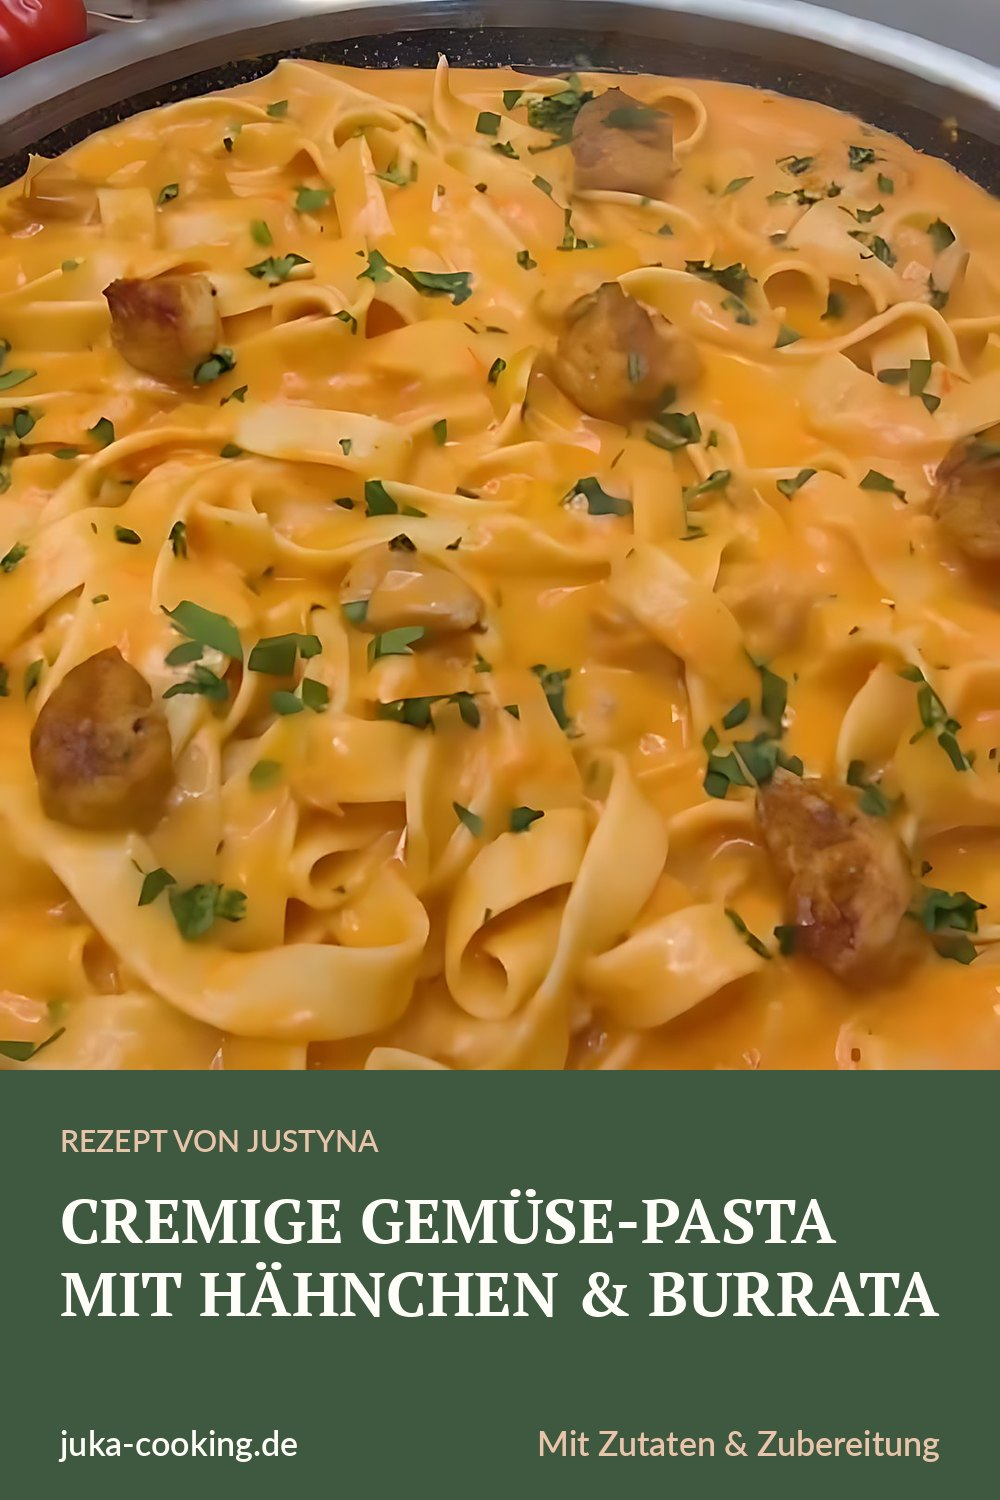
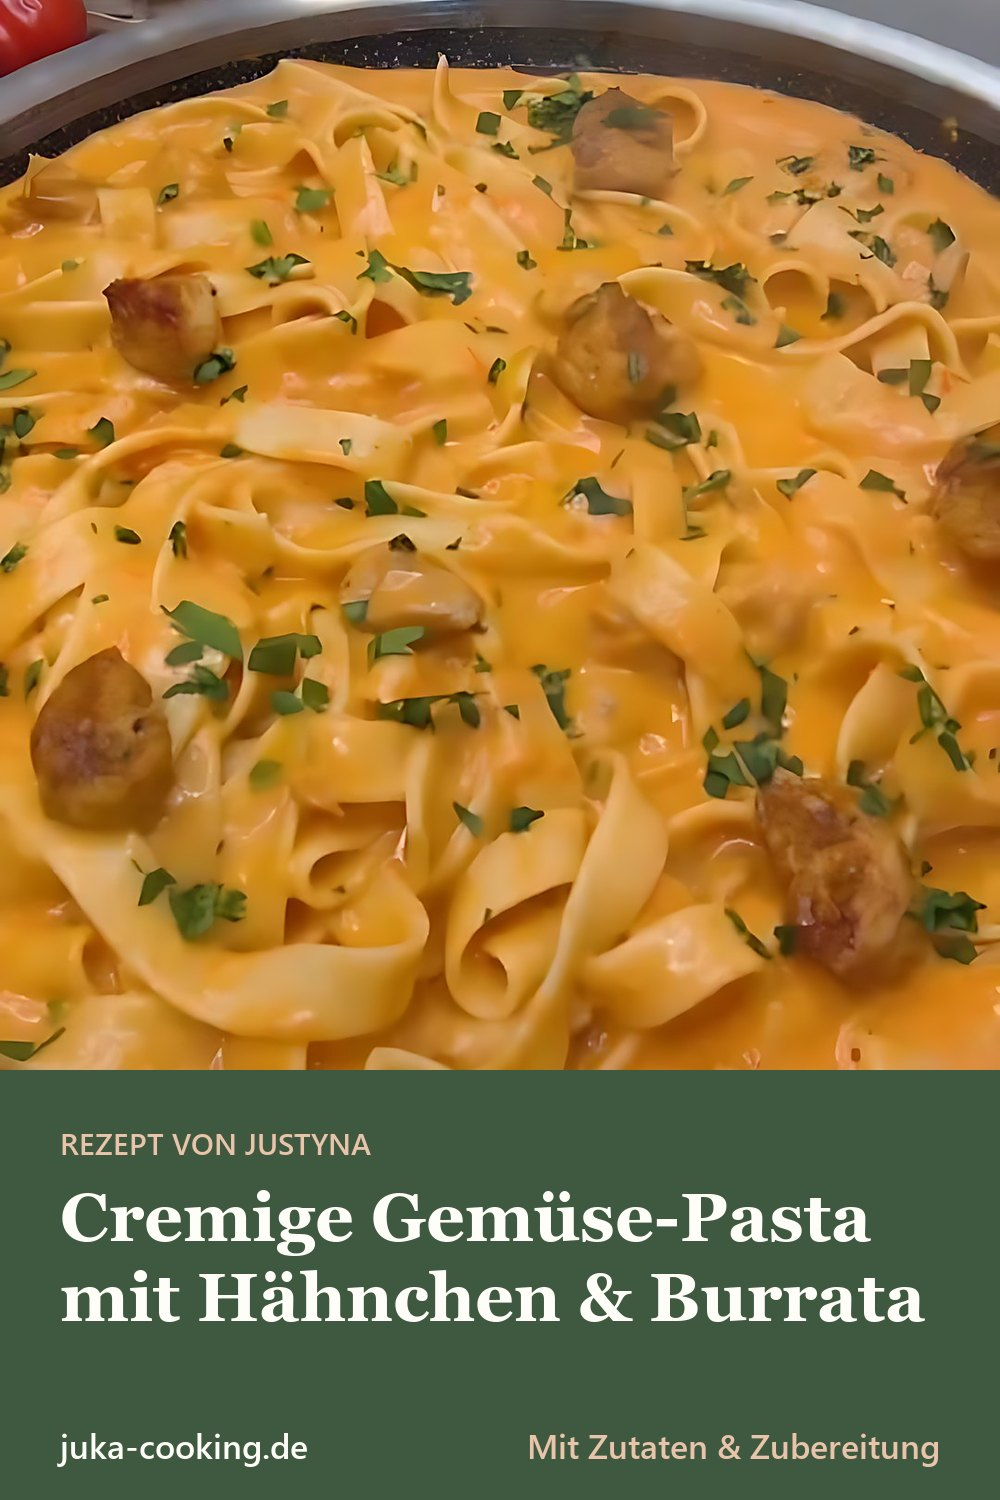
Rezept-Titel automatisch glätten
Großgeschriebene Titel werden normal geschrieben, Satz-Titel wie „Diese cremige
Brokkoli-Käse-Pasta ist echtes Soulfood“ auf den Gerichtnamen gekürzt. Die
Adressen der Rezeptseiten bleiben unverändert, damit Links und Pins gültig
bleiben. Pinterest-Bilder der zwei betroffenen Rezepte neu erzeugt.

Changed region(s): [[0.062, 0.736, 0.93, 0.8893], [0.527, 0.9507, 0.961, 0.9813], [0.062, 0.9507, 0.31, 0.9813]]

diff --git a/public/rezepte/cremige-gemuese-pasta-mit-haehnchen-burrata.html b/public/rezepte/cremige-gemuese-pasta-mit-haehnchen-burrata.html
@@ -7,20 +7,20 @@
   <meta name="theme-color" content="#f8f3e9">
   <meta name="referrer" content="no-referrer">
   <meta http-equiv="Content-Security-Policy" content="default-src 'none'; script-src 'self'; style-src 'self'; img-src 'self'; connect-src 'self' https://qwfbzcbcfznctzyoqbky.supabase.co; base-uri 'none'; form-action 'none'">
-  <title>CREMIGE GEMÜSE-PASTA MIT HÄHNCHEN &amp; BURRATA · Rezept von Juka Cooking</title>
+  <title>Cremige Gemüse-Pasta mit Hähnchen &amp; Burrata · Rezept von Juka Cooking</title>
   <link rel="stylesheet" href="../styles.css">
   <link rel="stylesheet" href="rezepte.css">
   <script src="../klick.js" defer></script>
   <link rel="canonical" href="https://juka-cooking.de/rezepte/cremige-gemuese-pasta-mit-haehnchen-burrata.html">
   <meta property="og:type" content="article">
   <meta property="og:site_name" content="Juka Cooking">
-  <meta property="og:title" content="CREMIGE GEMÜSE-PASTA MIT HÄHNCHEN &amp; BURRATA">
+  <meta property="og:title" content="Cremige Gemüse-Pasta mit Hähnchen &amp; Burrata">
   <meta property="og:description" content="Wer sagt, dass Gemüse langweilig sein muss? Diese herrlich cremige Pasta beweist das Gegenteil! Aromatisch geröstetes Gemüse, zartes Hähnchen, eine unglaublich cremige Sauce mit Burrata und Sahne – dazu Pasta und geschmolzener Käse. Eine Kombination, die einfach glücklich macht!">
   <meta property="og:url" content="https://juka-cooking.de/rezepte/cremige-gemuese-pasta-mit-haehnchen-burrata.html">
   <meta property="og:image" content="https://juka-cooking.de/pins/cremige-gemuese-pasta-mit-haehnchen-burrata.jpg">
   <meta property="og:image:width" content="1000">
   <meta property="og:image:height" content="1500">
-  <script type="application/ld+json">{"@context":"https://schema.org","@type":"Recipe","name":"CREMIGE GEMÜSE-PASTA MIT HÄHNCHEN & BURRATA","description":"Wer sagt, dass Gemüse langweilig sein muss? Diese herrlich cremige Pasta beweist das Gegenteil! Aromatisch geröstetes Gemüse, zartes Hähnchen, eine unglaublich cremige Sauce mit Burrata und Sahne – dazu Pasta und geschmolzener Käse. Eine Kombination, die einfach glücklich macht!","image":["https://juka-cooking.de/pins/cremige-gemuese-pasta-mit-haehnchen-burrata.jpg","https://juka-cooking.de/rezepte-bilder/ig-Df6xBOJIJXP.jpg"],"author":{"@type":"Person","name":"Justyna"},"datePublished":"2026-11-19","recipeYield":"4 Personen","recipeIngredient":["150 g Kirschtomaten","1 Paprika","4 Knoblauchzehen","½ Zwiebel","2 EL Olivenöl","Salz & Pfeffer","200 g Hähnchen-Innenfilet","1 TL Knoblauchpulver","1 TL Paprikapulver","1 TL Hähnchengewürz","Salz & Pfeffer","2 EL Öl","Das geröstete Gemüse","200 ml Sahne","3 EL Tomatenmark","1 Burrata","1 Kelle Nudelwasser","300 g Nudeln nach Wahl","1 Handvoll geriebener Käse (z. B. Mozzarella)","Frische Petersilie"],"recipeInstructions":[{"@type":"HowToStep","text":"Gemüse rösten: Tomaten, Paprika, Knoblauch und Zwiebel in eine Auflaufform geben. Mit Olivenöl beträufeln, würzen und bei 190 °C Ober-/Unterhitze ca. 40 Minuten im Ofen rösten."},{"@type":"HowToStep","text":"Hähnchen braten: Das Hähnchen in mundgerechte Stücke schneiden, würzen und in etwas Öl goldbraun anbraten."},{"@type":"HowToStep","text":"Sauce mixen: Das Ofengemüse mit Sahne, Tomatenmark, Burrata und Nudelwasser in einen Mixer geben und zu einer wunderbar cremigen Sauce pürieren."},{"@type":"HowToStep","text":"Alles vereinen: Nudeln al dente kochen. Die Sauce zum Hähnchen geben und kurz erwärmen. Nudeln und geriebenen Käse hinzufügen und alles gut miteinander vermengen, bis der Käse geschmolzen ist."},{"@type":"HowToStep","text":"Servieren: Mit frisch gehackter Petersilie garnieren und am besten direkt genießen!"}],"video":{"@type":"VideoObject","name":"CREMIGE GEMÜSE-PASTA MIT HÄHNCHEN & BURRATA","description":"Wer sagt, dass Gemüse langweilig sein muss? Diese herrlich cremige Pasta beweist das Gegenteil! Aromatisch geröstetes Gemüse, zartes Hähnchen, eine unglaublich cremige Sauce mit Burrata und Sahne – dazu Pasta und geschmolzener Käse. Eine Kombination, die einfach glücklich macht!","contentUrl":"https://www.instagram.com/reel/Df6xBOJIJXP/","thumbnailUrl":"https://juka-cooking.de/rezepte-bilder/ig-Df6xBOJIJXP.jpg","uploadDate":"2026-11-19T09:32:52.000Z"}}</script>
+  <script type="application/ld+json">{"@context":"https://schema.org","@type":"Recipe","name":"Cremige Gemüse-Pasta mit Hähnchen & Burrata","description":"Wer sagt, dass Gemüse langweilig sein muss? Diese herrlich cremige Pasta beweist das Gegenteil! Aromatisch geröstetes Gemüse, zartes Hähnchen, eine unglaublich cremige Sauce mit Burrata und Sahne – dazu Pasta und geschmolzener Käse. Eine Kombination, die einfach glücklich macht!","image":["https://juka-cooking.de/pins/cremige-gemuese-pasta-mit-haehnchen-burrata.jpg","https://juka-cooking.de/rezepte-bilder/ig-Df6xBOJIJXP.jpg"],"author":{"@type":"Person","name":"Justyna"},"datePublished":"2026-11-19","recipeYield":"4 Personen","recipeIngredient":["150 g Kirschtomaten","1 Paprika","4 Knoblauchzehen","½ Zwiebel","2 EL Olivenöl","Salz & Pfeffer","200 g Hähnchen-Innenfilet","1 TL Knoblauchpulver","1 TL Paprikapulver","1 TL Hähnchengewürz","Salz & Pfeffer","2 EL Öl","Das geröstete Gemüse","200 ml Sahne","3 EL Tomatenmark","1 Burrata","1 Kelle Nudelwasser","300 g Nudeln nach Wahl","1 Handvoll geriebener Käse (z. B. Mozzarella)","Frische Petersilie"],"recipeInstructions":[{"@type":"HowToStep","text":"Gemüse rösten: Tomaten, Paprika, Knoblauch und Zwiebel in eine Auflaufform geben. Mit Olivenöl beträufeln, würzen und bei 190 °C Ober-/Unterhitze ca. 40 Minuten im Ofen rösten."},{"@type":"HowToStep","text":"Hähnchen braten: Das Hähnchen in mundgerechte Stücke schneiden, würzen und in etwas Öl goldbraun anbraten."},{"@type":"HowToStep","text":"Sauce mixen: Das Ofengemüse mit Sahne, Tomatenmark, Burrata und Nudelwasser in einen Mixer geben und zu einer wunderbar cremigen Sauce pürieren."},{"@type":"HowToStep","text":"Alles vereinen: Nudeln al dente kochen. Die Sauce zum Hähnchen geben und kurz erwärmen. Nudeln und geriebenen Käse hinzufügen und alles gut miteinander vermengen, bis der Käse geschmolzen ist."},{"@type":"HowToStep","text":"Servieren: Mit frisch gehackter Petersilie garnieren und am besten direkt genießen!"}],"video":{"@type":"VideoObject","name":"Cremige Gemüse-Pasta mit Hähnchen & Burrata","description":"Wer sagt, dass Gemüse langweilig sein muss? Diese herrlich cremige Pasta beweist das Gegenteil! Aromatisch geröstetes Gemüse, zartes Hähnchen, eine unglaublich cremige Sauce mit Burrata und Sahne – dazu Pasta und geschmolzener Käse. Eine Kombination, die einfach glücklich macht!","contentUrl":"https://www.instagram.com/reel/Df6xBOJIJXP/","thumbnailUrl":"https://juka-cooking.de/rezepte-bilder/ig-Df6xBOJIJXP.jpg","uploadDate":"2026-11-19T09:32:52.000Z"}}</script>
 </head>
 <body>
   <header class="site-header">
@@ -37,10 +37,10 @@
     <p class="rn-back"><a href="./">← Alle Rezepte</a></p>
     <article>
       <div class="rn-top">
-        <figure class="rn-cover"><img src="../rezepte-bilder/ig-Df6xBOJIJXP.jpg" alt="CREMIGE GEMÜSE-PASTA MIT HÄHNCHEN &amp; BURRATA" width="640" height="800"></figure>
+        <figure class="rn-cover"><img src="../rezepte-bilder/ig-Df6xBOJIJXP.jpg" alt="Cremige Gemüse-Pasta mit Hähnchen &amp; Burrata" width="640" height="800"></figure>
         <div class="rn-side">
           
-          <h1>CREMIGE GEMÜSE-PASTA MIT HÄHNCHEN &amp; BURRATA</h1>
+          <h1>Cremige Gemüse-Pasta mit Hähnchen &amp; Burrata</h1>
           <p class="rn-intro">Wer sagt, dass Gemüse langweilig sein muss? Diese herrlich cremige Pasta beweist das Gegenteil! Aromatisch geröstetes Gemüse, zartes Hähnchen, eine unglaublich cremige Sauce mit Burrata und Sahne – dazu Pasta und geschmolzener Käse. Eine Kombination, die einfach glücklich macht!</p>
           <ul class="rn-facts"><li>4 Personen</li><li>20 Zutaten</li><li>5 Schritte</li></ul>
           <p class="rn-actions"><a class="rn-btn" href="#zubereitung">Zur Zubereitung</a> <a class="rn-btn rn-btn-light" href="https://www.instagram.com/reel/Df6xBOJIJXP/">Video ansehen ↗</a></p>
@@ -86,7 +86,7 @@
         
       </section>
       <aside class="rn-save" aria-label="Rezept merken">
-        <img src="../pins/cremige-gemuese-pasta-mit-haehnchen-burrata.jpg" alt="CREMIGE GEMÜSE-PASTA MIT HÄHNCHEN &amp; BURRATA – Rezeptbild zum Merken" width="1000" height="1500" loading="lazy" decoding="async">
+        <img src="../pins/cremige-gemuese-pasta-mit-haehnchen-burrata.jpg" alt="Cremige Gemüse-Pasta mit Hähnchen &amp; Burrata – Rezeptbild zum Merken" width="1000" height="1500" loading="lazy" decoding="async">
         <div>
           <h2>Rezept für später merken</h2>
           <p>Speichere das Bild auf Pinterest oder teile den Link dieser Seite – dann findest du das Rezept jederzeit wieder.</p>

diff --git a/public/rezepte/diese-cremige-brokkoli-kaese-pasta-ist-echtes-soulfood.html b/public/rezepte/diese-cremige-brokkoli-kaese-pasta-ist-echtes-soulfood.html
@@ -7,20 +7,20 @@
   <meta name="theme-color" content="#f8f3e9">
   <meta name="referrer" content="no-referrer">
   <meta http-equiv="Content-Security-Policy" content="default-src 'none'; script-src 'self'; style-src 'self'; img-src 'self'; connect-src 'self' https://qwfbzcbcfznctzyoqbky.supabase.co; base-uri 'none'; form-action 'none'">
-  <title>Diese cremige Brokkoli-Käse-Pasta ist echtes Soulfood · Rezept von Juka Cooking</title>
+  <title>Cremige Brokkoli-Käse-Pasta · Rezept von Juka Cooking</title>
   <link rel="stylesheet" href="../styles.css">
   <link rel="stylesheet" href="rezepte.css">
   <script src="../klick.js" defer></script>
   <link rel="canonical" href="https://juka-cooking.de/rezepte/diese-cremige-brokkoli-kaese-pasta-ist-echtes-soulfood.html">
   <meta property="og:type" content="article">
   <meta property="og:site_name" content="Juka Cooking">
-  <meta property="og:title" content="Diese cremige Brokkoli-Käse-Pasta ist echtes Soulfood">
+  <meta property="og:title" content="Cremige Brokkoli-Käse-Pasta">
   <meta property="og:description" content="In nur 15 Minuten zauberst du dir ein unglaublich cremiges Nudelgericht, das die ganze Familie lieben wird. Viel geschmolzener Käse, eine herrlich sahnige Sauce und knackiger Brokkoli – einfacher geht Genuss kaum! Und das Beste: Du brauchst nur wenige Zutaten.">
   <meta property="og:url" content="https://juka-cooking.de/rezepte/diese-cremige-brokkoli-kaese-pasta-ist-echtes-soulfood.html">
   <meta property="og:image" content="https://juka-cooking.de/pins/diese-cremige-brokkoli-kaese-pasta-ist-echtes-soulfood.jpg">
   <meta property="og:image:width" content="1000">
   <meta property="og:image:height" content="1500">
-  <script type="application/ld+json">{"@context":"https://schema.org","@type":"Recipe","name":"Diese cremige Brokkoli-Käse-Pasta ist echtes Soulfood","description":"In nur 15 Minuten zauberst du dir ein unglaublich cremiges Nudelgericht, das die ganze Familie lieben wird. Viel geschmolzener Käse, eine herrlich sahnige Sauce und knackiger Brokkoli – einfacher geht Genuss kaum! Und das Beste: Du brauchst nur wenige Zutaten.","image":["https://juka-cooking.de/pins/diese-cremige-brokkoli-kaese-pasta-ist-echtes-soulfood.jpg","https://juka-cooking.de/rezepte-bilder/ig-Df9Y4lmIIyZ.jpg"],"author":{"@type":"Person","name":"Justyna"},"datePublished":"2026-11-20","totalTime":"PT15M","recipeIngredient":["250 g Nudeln","250 g Brokkoli","300 ml Kochsahne","300 ml Milch","1 EL Butter","1 EL Mehl","1 Knoblauchzehe","1 Packung geriebener Käse","3 Scheiben Cheddar","Salz, Pfeffer und Paprikapulver"],"recipeInstructions":[{"@type":"HowToStep","text":"Nudeln in Salzwasser etwa 10 Minuten kochen."},{"@type":"HowToStep","text":"Brokkoli in kleine Röschen teilen und die letzten 3 Minuten mit ins Nudelwasser geben."},{"@type":"HowToStep","text":"Butter in einer Pfanne schmelzen, Mehl einrühren und kurz anschwitzen."},{"@type":"HowToStep","text":"Knoblauch hinzufügen. Milch und Kochsahne nach und nach einrühren."},{"@type":"HowToStep","text":"Mit Salz, Pfeffer und Paprikapulver abschmecken."},{"@type":"HowToStep","text":"Geriebenen Käse und Cheddar dazugeben und schmelzen lassen, bis eine wunderbar cremige Käsesauce entsteht."},{"@type":"HowToStep","text":"Nudeln und Brokkoli unterheben und alles gut vermengen."}],"video":{"@type":"VideoObject","name":"Diese cremige Brokkoli-Käse-Pasta ist echtes Soulfood","description":"In nur 15 Minuten zauberst du dir ein unglaublich cremiges Nudelgericht, das die ganze Familie lieben wird. Viel geschmolzener Käse, eine herrlich sahnige Sauce und knackiger Brokkoli – einfacher geht Genuss kaum! Und das Beste: Du brauchst nur wenige Zutaten.","contentUrl":"https://www.instagram.com/reel/Df9Y4lmIIyZ/","thumbnailUrl":"https://juka-cooking.de/rezepte-bilder/ig-Df9Y4lmIIyZ.jpg","uploadDate":"2026-11-20T09:59:38.000Z"}}</script>
+  <script type="application/ld+json">{"@context":"https://schema.org","@type":"Recipe","name":"Cremige Brokkoli-Käse-Pasta","description":"In nur 15 Minuten zauberst du dir ein unglaublich cremiges Nudelgericht, das die ganze Familie lieben wird. Viel geschmolzener Käse, eine herrlich sahnige Sauce und knackiger Brokkoli – einfacher geht Genuss kaum! Und das Beste: Du brauchst nur wenige Zutaten.","image":["https://juka-cooking.de/pins/diese-cremige-brokkoli-kaese-pasta-ist-echtes-soulfood.jpg","https://juka-cooking.de/rezepte-bilder/ig-Df9Y4lmIIyZ.jpg"],"author":{"@type":"Person","name":"Justyna"},"datePublished":"2026-11-20","totalTime":"PT15M","recipeIngredient":["250 g Nudeln","250 g Brokkoli","300 ml Kochsahne","300 ml Milch","1 EL Butter","1 EL Mehl","1 Knoblauchzehe","1 Packung geriebener Käse","3 Scheiben Cheddar","Salz, Pfeffer und Paprikapulver"],"recipeInstructions":[{"@type":"HowToStep","text":"Nudeln in Salzwasser etwa 10 Minuten kochen."},{"@type":"HowToStep","text":"Brokkoli in kleine Röschen teilen und die letzten 3 Minuten mit ins Nudelwasser geben."},{"@type":"HowToStep","text":"Butter in einer Pfanne schmelzen, Mehl einrühren und kurz anschwitzen."},{"@type":"HowToStep","text":"Knoblauch hinzufügen. Milch und Kochsahne nach und nach einrühren."},{"@type":"HowToStep","text":"Mit Salz, Pfeffer und Paprikapulver abschmecken."},{"@type":"HowToStep","text":"Geriebenen Käse und Cheddar dazugeben und schmelzen lassen, bis eine wunderbar cremige Käsesauce entsteht."},{"@type":"HowToStep","text":"Nudeln und Brokkoli unterheben und alles gut vermengen."}],"video":{"@type":"VideoObject","name":"Cremige Brokkoli-Käse-Pasta","description":"In nur 15 Minuten zauberst du dir ein unglaublich cremiges Nudelgericht, das die ganze Familie lieben wird. Viel geschmolzener Käse, eine herrlich sahnige Sauce und knackiger Brokkoli – einfacher geht Genuss kaum! Und das Beste: Du brauchst nur wenige Zutaten.","contentUrl":"https://www.instagram.com/reel/Df9Y4lmIIyZ/","thumbnailUrl":"https://juka-cooking.de/rezepte-bilder/ig-Df9Y4lmIIyZ.jpg","uploadDate":"2026-11-20T09:59:38.000Z"}}</script>
 </head>
 <body>
   <header class="site-header">
@@ -37,10 +37,10 @@
     <p class="rn-back"><a href="./">← Alle Rezepte</a></p>
     <article>
       <div class="rn-top">
-        <figure class="rn-cover"><img src="../rezepte-bilder/ig-Df9Y4lmIIyZ.jpg" alt="Diese cremige Brokkoli-Käse-Pasta ist echtes Soulfood" width="640" height="800"></figure>
+        <figure class="rn-cover"><img src="../rezepte-bilder/ig-Df9Y4lmIIyZ.jpg" alt="Cremige Brokkoli-Käse-Pasta" width="640" height="800"></figure>
         <div class="rn-side">
           
-          <h1>Diese cremige Brokkoli-Käse-Pasta ist echtes Soulfood</h1>
+          <h1>Cremige Brokkoli-Käse-Pasta</h1>
           <p class="rn-intro">In nur 15 Minuten zauberst du dir ein unglaublich cremiges Nudelgericht, das die ganze Familie lieben wird. Viel geschmolzener Käse, eine herrlich sahnige Sauce und knackiger Brokkoli – einfacher geht Genuss kaum! Und das Beste: Du brauchst nur wenige Zutaten.</p>
           <ul class="rn-facts"><li>ca. 15 Min.</li><li>10 Zutaten</li><li>7 Schritte</li></ul>
           <p class="rn-actions"><a class="rn-btn" href="#zubereitung">Zur Zubereitung</a> <a class="rn-btn rn-btn-light" href="https://www.instagram.com/reel/Df9Y4lmIIyZ/">Video ansehen ↗</a></p>
@@ -74,7 +74,7 @@
         
       </section>
       <aside class="rn-save" aria-label="Rezept merken">
-        <img src="../pins/diese-cremige-brokkoli-kaese-pasta-ist-echtes-soulfood.jpg" alt="Diese cremige Brokkoli-Käse-Pasta ist echtes Soulfood – Rezeptbild zum Merken" width="1000" height="1500" loading="lazy" decoding="async">
+        <img src="../pins/diese-cremige-brokkoli-kaese-pasta-ist-echtes-soulfood.jpg" alt="Cremige Brokkoli-Käse-Pasta – Rezeptbild zum Merken" width="1000" height="1500" loading="lazy" decoding="async">
         <div>
           <h2>Rezept für später merken</h2>
           <p>Speichere das Bild auf Pinterest oder teile den Link dieser Seite – dann findest du das Rezept jederzeit wieder.</p>

diff --git a/public/rezepte/index.html b/public/rezepte/index.html
@@ -500,17 +500,17 @@
             <p class="rz-meta">9 Zutaten</p>
           </a>
         </li>
-        <li class="rz-card" data-tags="pasta schnell" data-rank="65" data-date="2026-11-20" data-search="diese cremige brokkoli-käse-pasta ist echtes soulfood 250 g nudeln 250 g brokkoli 300 ml kochsahne 300 ml milch 1 el butter 1 el mehl 1 knoblauchzehe 1 packung geriebener käse 3 scheiben cheddar salz, pfeffer und paprikapulver">
+        <li class="rz-card" data-tags="pasta schnell" data-rank="65" data-date="2026-11-20" data-search="cremige brokkoli-käse-pasta 250 g nudeln 250 g brokkoli 300 ml kochsahne 300 ml milch 1 el butter 1 el mehl 1 knoblauchzehe 1 packung geriebener käse 3 scheiben cheddar salz, pfeffer und paprikapulver">
           <a href="diese-cremige-brokkoli-kaese-pasta-ist-echtes-soulfood.html">
             <div class="rz-cover"><img src="../rezepte-bilder/ig-Df9Y4lmIIyZ.jpg" alt="" loading="lazy" decoding="async" width="640" height="800"></div>
-            <h2 class="rz-title">Diese cremige Brokkoli-Käse-Pasta ist echtes Soulfood</h2>
+            <h2 class="rz-title">Cremige Brokkoli-Käse-Pasta</h2>
             <p class="rz-meta">ca. 15 Min. · 10 Zutaten</p>
           </a>
         </li>
         <li class="rz-card" data-tags="pasta haehnchen" data-rank="66" data-date="2026-11-19" data-search="cremige gemüse-pasta mit hähnchen &amp; burrata für das ofengemüse: 150 g kirschtomaten 1 paprika 4 knoblauchzehen ½ zwiebel 2 el olivenöl salz &amp; pfeffer für das hähnchen: 200 g hähnchen-innenfilet 1 tl knoblauchpulver 1 tl paprikapulver 1 tl hähnchengewürz salz &amp; pfeffer 2 el öl für die cremige sauce: das geröstete gemüse 200 ml sahne 3 el tomatenmark 1 burrata 1 kelle nudelwasser außerdem: 300 g nudeln nach wahl 1 handvoll geriebener käse (z. b. mozzarella) frische petersilie">
           <a href="cremige-gemuese-pasta-mit-haehnchen-burrata.html">
             <div class="rz-cover"><img src="../rezepte-bilder/ig-Df6xBOJIJXP.jpg" alt="" loading="lazy" decoding="async" width="640" height="800"></div>
-            <h2 class="rz-title">CREMIGE GEMÜSE-PASTA MIT HÄHNCHEN &amp; BURRATA</h2>
+            <h2 class="rz-title">Cremige Gemüse-Pasta mit Hähnchen &amp; Burrata</h2>
             <p class="rz-meta">20 Zutaten</p>
           </a>
         </li>
